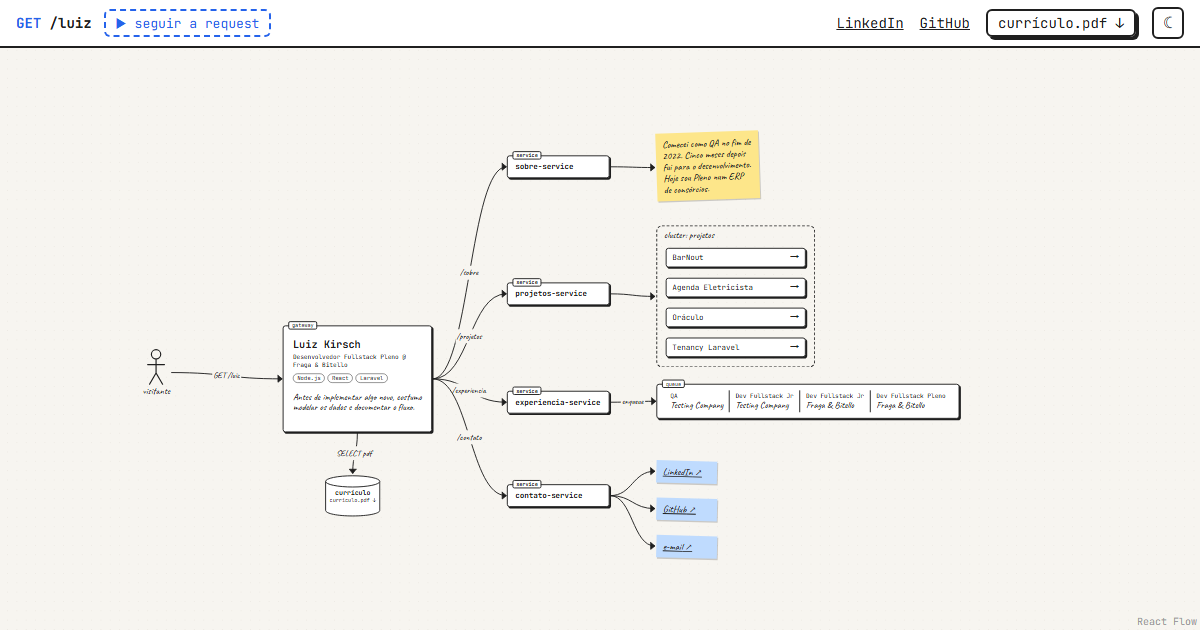
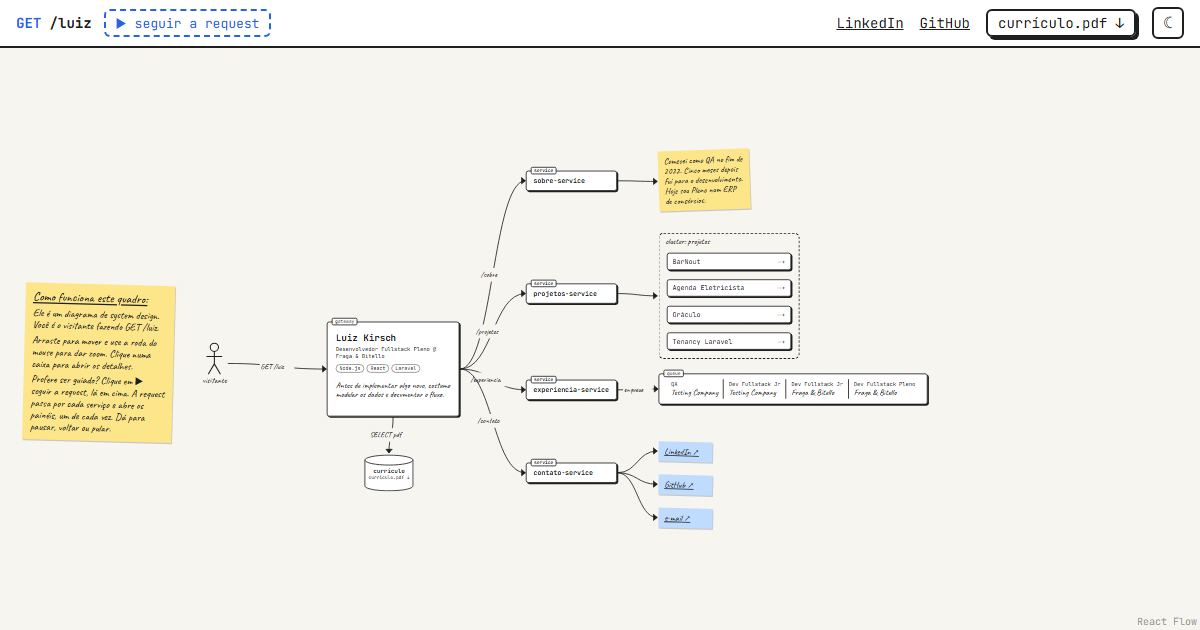
Post-it "como funciona" à esquerda do visitante no lugar da faixa de dica
Explica o quadro (você é o visitante fazendo GET /luiz), como navegar
e o tour "seguir a request". Texto em content.ts (howTo), nó sticky no
modelo; o StickyNode passou a renderizar o texto que vem do modelo.
Sai a faixa azul do topo e o estado de dica do Board.

Changed region(s): [[0.0, 0.2111, 0.8017, 0.9048], [0.37, 0.6937, 0.4008, 0.7238]]

diff --git a/src/canvas/Board.tsx b/src/canvas/Board.tsx
@@ -1,4 +1,4 @@
-import { useCallback, useEffect, useRef, useState, type KeyboardEvent } from 'react'
+import { useCallback, useEffect, useRef, type KeyboardEvent } from 'react'
 import { useLocation, useNavigate } from 'react-router'
 import {
   Background,
@@ -154,19 +154,17 @@ function FitAll() {
   )
 }
 
-// "Ver tudo" deixa livres a dica (em cima), o minimapa (direita) e o botão (embaixo).
-const FIT = { padding: { top: '84px', left: '24px', right: '240px', bottom: '72px' } } as const
+// "Ver tudo" deixa livres o canto do minimapa (direita) e o botão (embaixo).
+const FIT = { padding: { top: '24px', left: '24px', right: '240px', bottom: '72px' } } as const
 
-/** `tour`: parada atual do tour, quando ele está rodando. */
+/**
+ * `tour`: parada atual do tour, quando ele está rodando.
+ * Como usar o quadro está explicado no post-it "como funciona", que é um nó do modelo.
+ */
 export function Board({ tour }: { tour?: TourStep }) {
   const navigate = useNavigate()
-  // Dica de navegação: aparece em toda visita e some na primeira interação
-  // (arrastar, dar zoom, clicar ou Enter num nó).
-  const [hint, setHint] = useState(true)
-  const dismissHint = () => setHint(false)
 
   const open = (n: ModelNode) => {
-    dismissHint()
     if (n.route) navigate(n.route)
   }
 
@@ -198,8 +196,6 @@ export function Board({ tour }: { tour?: TourStep }) {
         edgesFocusable={false}
         onNodeClick={(_, n) => open(n.data)}
         onKeyDown={onKeyDown}
-        // `event` só existe quando o movimento veio do usuário, não do fitView.
-        onMoveStart={(event) => event && dismissHint()}
       >
         <RouteCamera touring={!!tour} />
         {tour && (
@@ -214,16 +210,6 @@ export function Board({ tour }: { tour?: TourStep }) {
         <Panel position="bottom-center">
           <FitAll />
         </Panel>
-        {/* Durante o tour o balão já guia o visitante: a dica sai do caminho. */}
-        {hint && !tour && (
-          // O Panel do React Flow já usa transform para centralizar: o estilo vai num filho.
-          <Panel position="top-center">
-            <p className={s.hint}>
-              <span aria-hidden="true">✋</span> arrasta · <span aria-hidden="true">🔍</span> dá
-              zoom · <span aria-hidden="true">👆</span> clica nas caixas
-            </p>
-          </Panel>
-        )}
       </ReactFlow>
     </div>
   )

diff --git a/src/diagram/model.ts b/src/diagram/model.ts
@@ -7,7 +7,7 @@
  *
  * Tudo é derivado de content.ts: um projeto novo vira nó e aresta sozinho.
  */
-import { experiences, profile, projects } from '../content/content'
+import { aboutNote, experiences, howTo, profile, projects } from '../content/content'
 
 export type NodeKind =
   'actor' | 'gateway' | 'service' | 'cluster' | 'project' | 'queue' | 'sticky' | 'database'
@@ -24,6 +24,8 @@ export type ModelNode = {
   parentId?: string
   /** Cor do post-it. */
   tone?: 'yellow' | 'blue'
+  /** Texto do post-it (um parágrafo por item). */
+  text?: string[]
 }
 
 export type ModelEdge = { id: string; source: string; target: string; label?: string }
@@ -45,11 +47,20 @@ export const contactLinks = [
 export const projectRoute = (slug: string) => `/projetos/${slug}`
 
 export const nodes: ModelNode[] = [
+  // Anotação solta ao lado do visitante, sem setas: explica como usar o quadro.
+  { id: 'como-usar', kind: 'sticky', label: 'como funciona', tone: 'yellow', text: howTo },
   { id: 'actor', kind: 'actor', label: 'visitante' },
   { id: 'gateway', kind: 'gateway', label: profile.name, route: '/' },
   { id: 'curriculo', kind: 'database', label: 'currículo', href: profile.cv },
   ...services.map((s): ModelNode => ({ ...s, kind: 'service' })),
-  { id: 'sobre-note', kind: 'sticky', label: 'sobre mim', route: '/sobre', tone: 'yellow' },
+  {
+    id: 'sobre-note',
+    kind: 'sticky',
+    label: 'sobre mim',
+    route: '/sobre',
+    tone: 'yellow',
+    text: [aboutNote],
+  },
   // /projetos não tem painel próprio: clicar no cluster só centraliza a câmera nele.
   { id: 'cluster', kind: 'cluster', label: 'cluster: projetos', route: '/projetos' },
   ...projects.map((p): ModelNode => ({

diff --git a/src/canvas/nodes/StickyNode.tsx b/src/canvas/nodes/StickyNode.tsx
@@ -1,20 +1,33 @@
-import { aboutNote } from '../../content/content'
 import { Handles } from './Handles'
 import type { BoardNodeProps } from './types'
 import s from './nodes.module.css'
 
-// Post-it. Amarelo é anotação (sobre); azul é link de contato, com <a> de verdade.
+/**
+ * Post-it. Amarelo é anotação (texto vem do modelo); azul é link de contato,
+ * com <a> de verdade. Anotação com vários parágrafos fica mais larga e usa o
+ * primeiro como título.
+ */
 export function StickyNode({ data }: BoardNodeProps) {
-  const cls = `${s.sticky} ${data.tone === 'blue' ? s.blue : s.yellow}`
-  return (
-    <div className={cls}>
-      {data.href ? (
+  if (data.href) {
+    return (
+      <div className={`${s.sticky} ${s.blue}`}>
         <a href={data.href} target="_blank" rel="noreferrer">
           {data.label} ↗
         </a>
-      ) : (
-        aboutNote
-      )}
+        <Handles />
+      </div>
+    )
+  }
+
+  const text = data.text ?? []
+  const long = text.length > 1
+  return (
+    <div className={`${s.sticky} ${s.yellow} ${long ? s.wide : ''}`}>
+      {text.map((t, i) => (
+        <p key={t} className={long && i === 0 ? s.noteTitle : undefined}>
+          {t}
+        </p>
+      ))}
       <Handles />
     </div>
   )

diff --git a/src/canvas/board.module.css b/src/canvas/board.module.css
@@ -26,38 +26,3 @@
 .button:hover {
   border-color: var(--accent);
 }
-
-/* Dica de navegação: anotação azul em destaque no topo do quadro. */
-.hint {
-  font-family: var(--hand);
-  font-size: 26px;
-  line-height: 1.2;
-  color: var(--accent);
-  background: var(--paper);
-  border: 2px dashed var(--accent);
-  border-radius: 10px;
-  box-shadow: 3px 3px 0 var(--accent);
-  padding: 6px 18px;
-  white-space: nowrap;
-  margin: 0;
-  pointer-events: none;
-  animation: nudge 1.6s ease-in-out 2;
-}
-
-/* Um balanço curto ao aparecer, para o olho achar a dica. */
-@keyframes nudge {
-  0%,
-  100% {
-    transform: rotate(-1.5deg) translateY(0);
-  }
-  50% {
-    transform: rotate(-1.5deg) translateY(-6px);
-  }
-}
-
-@media (prefers-reduced-motion: reduce) {
-  .hint {
-    animation: none;
-    transform: rotate(-1.5deg);
-  }
-}

diff --git a/src/content/content.ts b/src/content/content.ts
@@ -84,6 +84,14 @@ export const profile = {
   cv: '/curriculo.pdf',
 }
 
+/** Post-it à esquerda do visitante: como usar o quadro. Só aparece no canvas. */
+export const howTo: string[] = [
+  'Como funciona este quadro:',
+  'Ele é um diagrama de system design. Você é o visitante fazendo GET /luiz.',
+  'Arraste para mover e use a roda do mouse para dar zoom. Clique numa caixa para abrir os detalhes.',
+  'Prefere ser guiado? Clique em ▶ seguir a request, lá em cima. A request passa por cada serviço e abre os painéis, um de cada vez. Dá para pausar, voltar ou pular.',
+]
+
 /** Versão curta para o post-it do canvas. O painel /sobre usa `about`. */
 export const aboutNote =
   'Comecei como QA no fim de 2022. Cinco meses depois fui para o desenvolvimento. Hoje sou Pleno num ERP de consórcios.'

diff --git a/src/canvas/nodes/nodes.module.css b/src/canvas/nodes/nodes.module.css
@@ -141,6 +141,28 @@
   transform: rotate(-2deg);
 }
 
+.yellow p {
+  margin: 0;
+}
+
+.yellow p + p {
+  margin-top: 8px;
+}
+
+/* Post-it de instruções: mais largo, inclinado para o outro lado. */
+.wide {
+  width: 360px;
+  padding: 16px 18px;
+  font-size: 25px;
+  transform: rotate(1.5deg);
+}
+
+.noteTitle {
+  font-size: 30px;
+  text-decoration: underline;
+  text-underline-offset: 4px;
+}
+
 .blue {
   min-width: 130px;
   background: var(--sticky-blue);

diff --git a/src/diagram/layout.ts b/src/diagram/layout.ts
@@ -25,6 +25,7 @@ const CLUSTER_BOTTOM = 90
 const clusterTop = CLUSTER_BOTTOM - clusterSize.height
 
 const fixed: Record<string, XY> = {
+  'como-usar': { x: -730, y: -90 },
   actor: { x: -300, y: 50 },
   gateway: { x: 0, y: 0 },
   curriculo: { x: 90, y: 320 },
